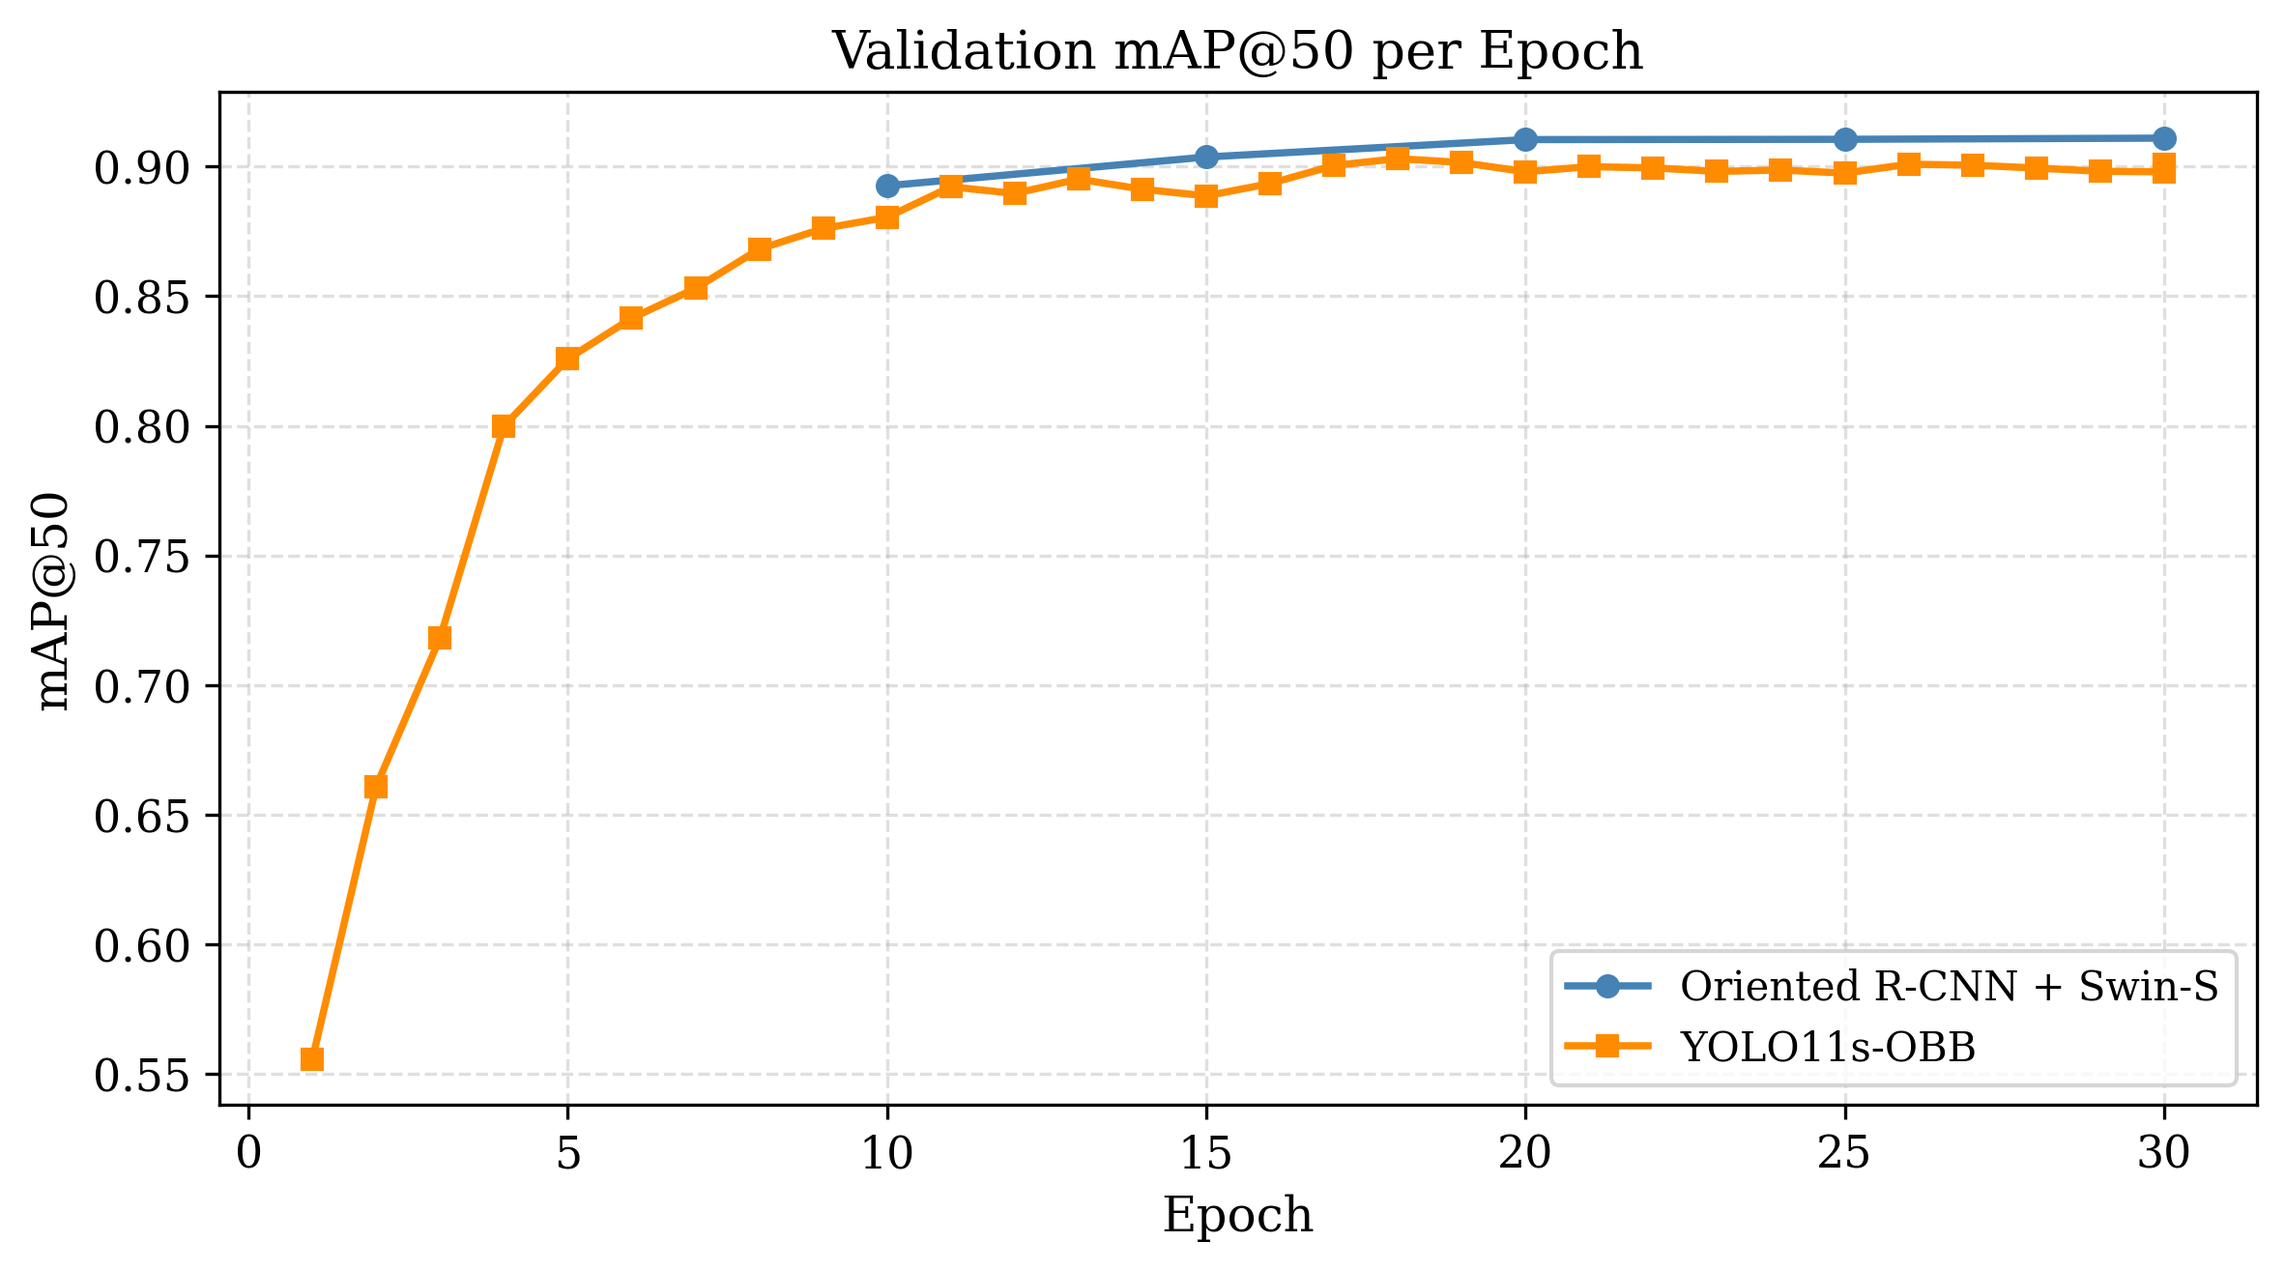
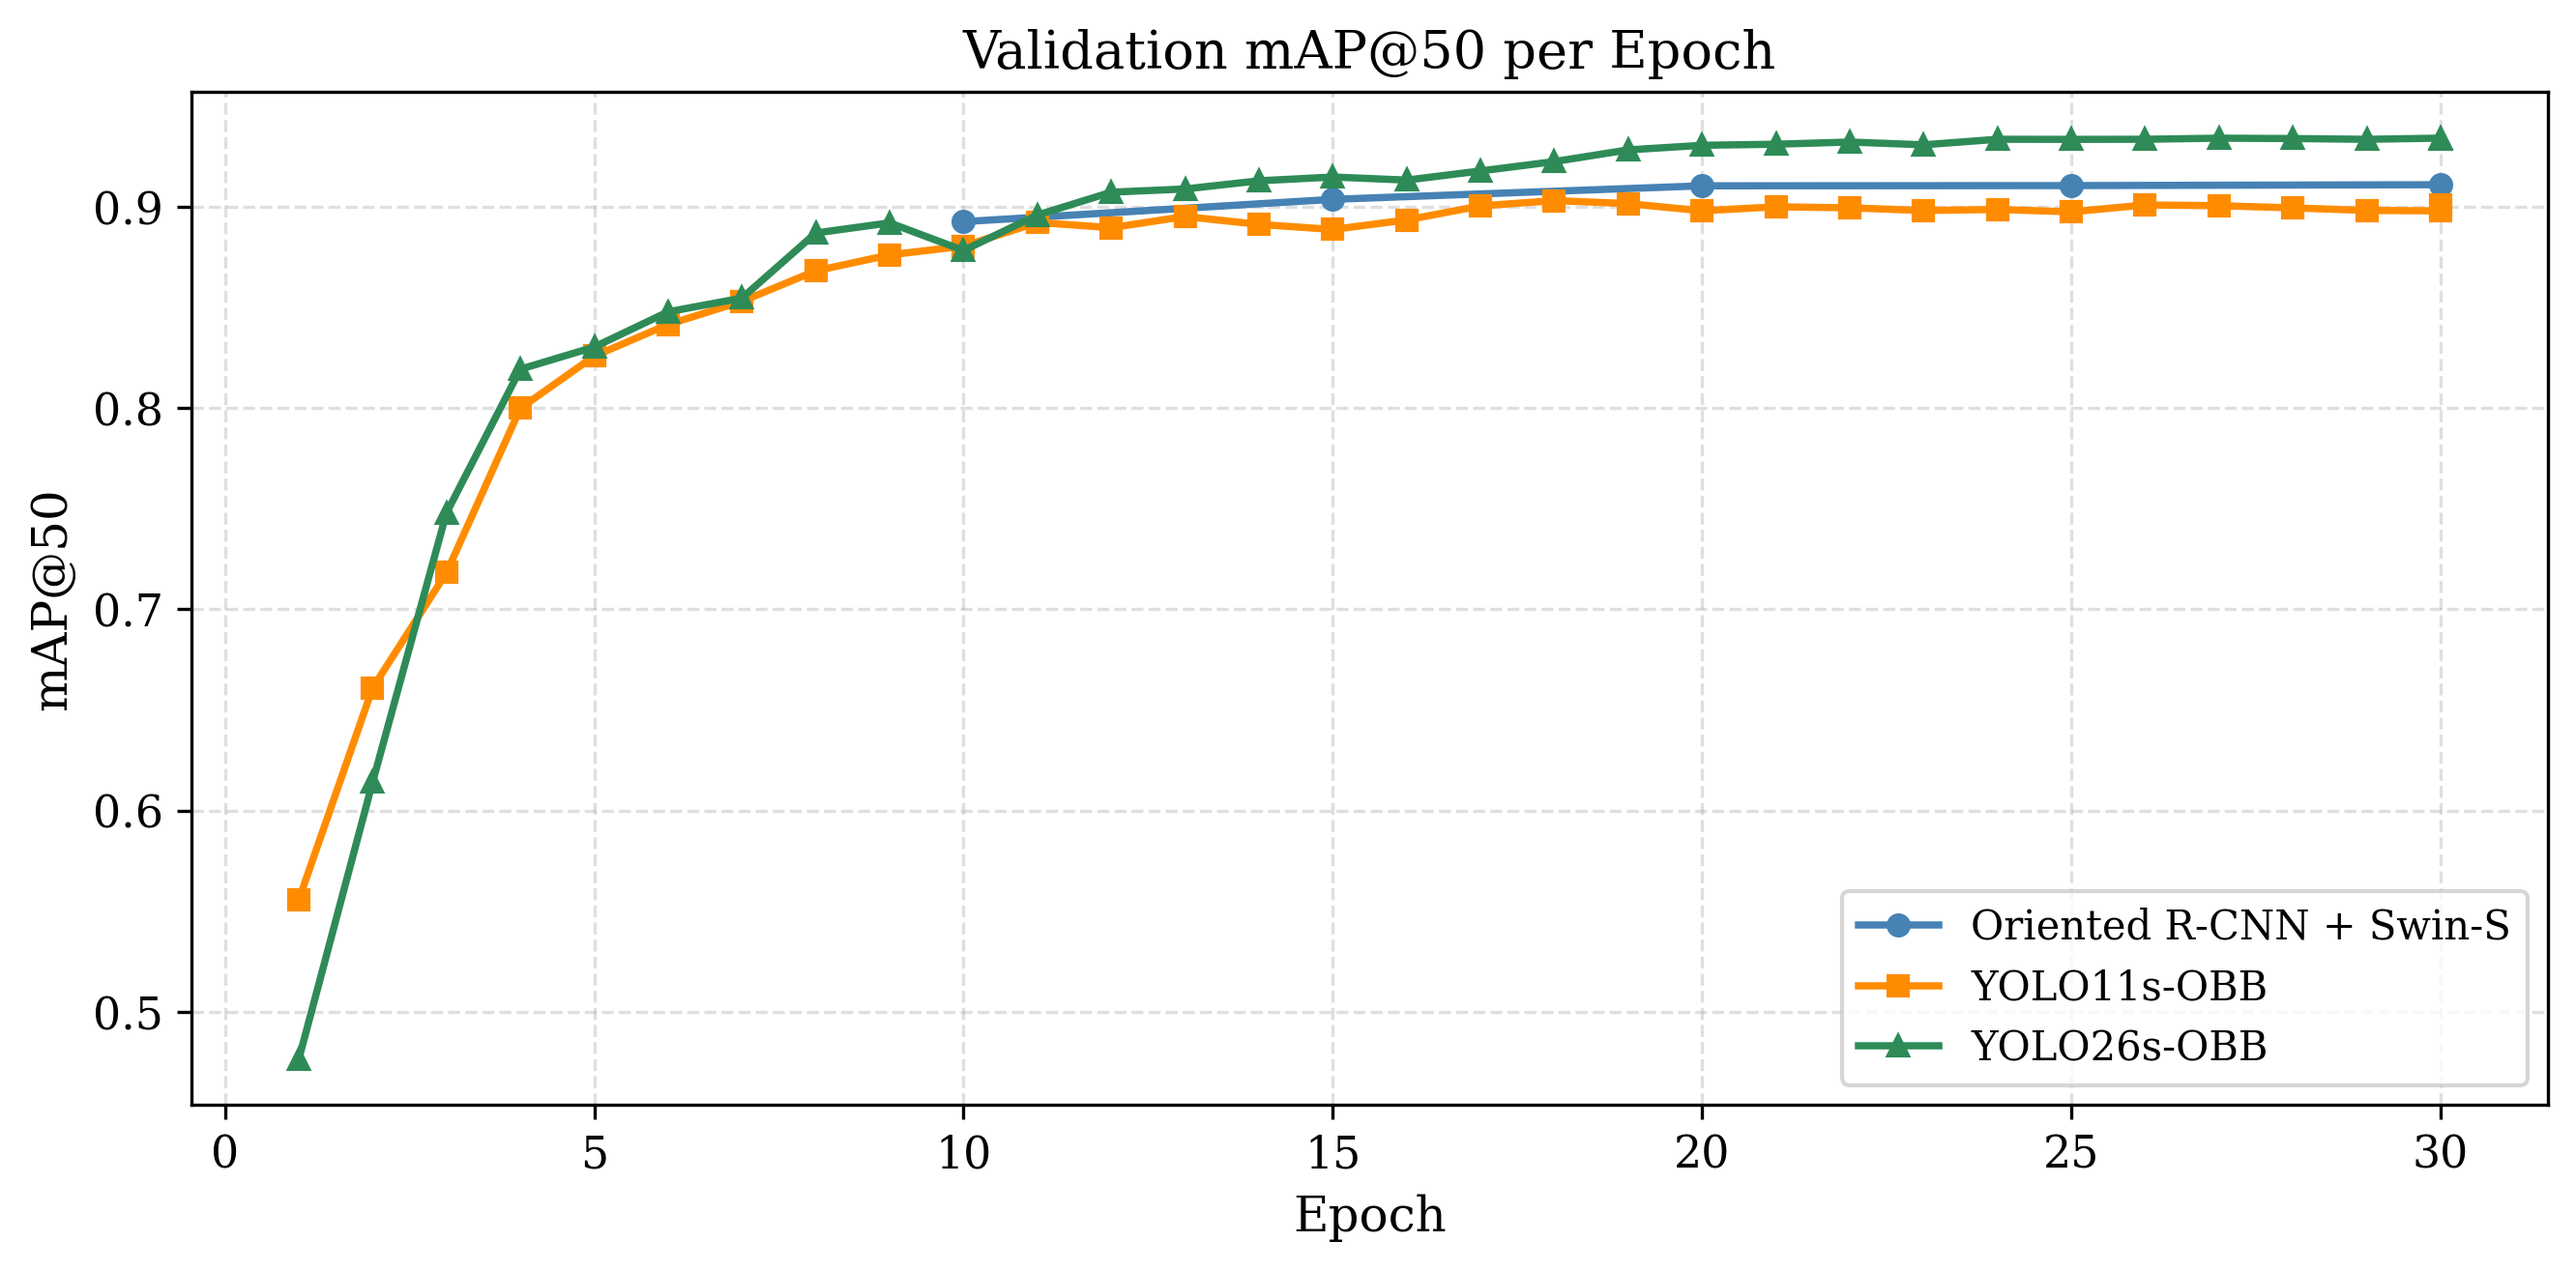
Regenerate all figures with YOLO26s; fix log paths and Pareto filter
Made-with: Cursor

diff --git a/docs/plot_results.py b/docs/plot_results.py
@@ -31,8 +31,8 @@ FIGURES  = Path("docs/figures")
 FIGURES.mkdir(exist_ok=True)
 
 RCNN_LOG   = "work_dirs/orientedrcnn_swinS_baseline/tf_logs"
-YOLO11_LOG = "runs/yolo_obb/yolo11s_baseline/train"
-YOLO11_CSV = "runs/yolo_obb/yolo11s_baseline/train/results.csv"
+YOLO11_LOG = "work_dirs/yolo26_obb_baseline/train"
+YOLO11_CSV = "work_dirs/yolo26_obb_baseline/train/results.csv"
 YOLO26_LOG = "runs/yolo_obb/yolo26s_baseline/train"
 YOLO26_CSV = "runs/yolo_obb/yolo26s_baseline/train/results.csv"
 
@@ -57,9 +57,9 @@ def load_tb(logdir, scalar_key):
     return [e.step for e in events], [e.value for e in events]
 
 
-def load_yolo_csv(col):
+def load_yolo_csv(col, csv_path=None):
     """Load a column from YOLO results.csv. Returns (epochs, values)."""
-    p = Path(YOLO_CSV)
+    p = Path(csv_path or YOLO_CSV)
     if not p.exists():
         return [], []
     rows = []
@@ -75,11 +75,19 @@ def load_yolo_csv(col):
 
 
 def yolo_series(tb_key, csv_col):
-    """Try TensorBoard first, fall back to CSV for YOLO data."""
-    steps, vals = load_tb(YOLO_LOG, tb_key)
+    """Try TensorBoard first, fall back to CSV for YOLO11s data."""
+    steps, vals = load_tb(YOLO11_LOG, tb_key)
     if steps:
         return steps, vals
-    return load_yolo_csv(csv_col)
+    return load_yolo_csv(csv_col, YOLO11_CSV)
+
+
+def yolo26_series(tb_key, csv_col):
+    """Try TensorBoard first, fall back to CSV for YOLO26s data."""
+    steps, vals = load_tb(YOLO26_LOG, tb_key)
+    if steps:
+        return steps, vals
+    return load_yolo_csv(csv_col, YOLO26_CSV)
 
 
 def smooth(vals, weight=0.85):
@@ -93,8 +101,40 @@ def smooth(vals, weight=0.85):
 
 # ── Fig 1: Training loss curves ───────────────────────────────────────────────
 
+def _plot_yolo_loss_panel(ax, series_fn, title):
+    """Shared helper: plot YOLO loss components on a given axes."""
+    comp_keys = [
+        ("train/box_loss",   "train/box_loss",   "Box loss",   "steelblue"),
+        ("train/cls_loss",   "train/cls_loss",   "Cls loss",   "darkorange"),
+        ("train/dfl_loss",   "train/dfl_loss",   "DFL loss",   "seagreen"),
+        ("train/angle_loss", "train/angle_loss", "Angle loss", "orchid"),
+    ]
+    all_epochs, all_arrs = None, []
+    for tb_key, csv_col, label, color in comp_keys:
+        epochs, vals = series_fn(tb_key, csv_col)
+        if not epochs:
+            continue
+        all_epochs = epochs
+        all_arrs.append(np.array(vals))
+        ax.plot(epochs, vals, alpha=0.25, color=color, linewidth=0.7)
+        ax.plot(epochs, smooth(vals), color=color, linewidth=1.2,
+                linestyle="--", label=label)
+    if all_epochs is not None and len(all_arrs) == 4:
+        total = sum(all_arrs)
+        ax.plot(all_epochs, total, alpha=0.25, color="black", linewidth=0.7)
+        ax.plot(all_epochs, smooth(list(total)), color="black",
+                linewidth=2.0, label="Total loss")
+    if all_epochs is None:
+        ax.text(0.5, 0.5, "No data yet", ha="center", va="center",
+                transform=ax.transAxes, color="gray")
+    ax.set_title(title)
+    ax.set_xlabel("Epoch")
+    ax.set_ylabel("Loss")
+    ax.legend(fontsize=8)
+
+
 def plot_loss_curves():
-    fig, axes = plt.subplots(1, 2, figsize=(13, 4.5), sharey=False)
+    fig, axes = plt.subplots(1, 3, figsize=(18, 4.5), sharey=False)
 
     # --- RCNN (total loss from TensorBoard) ---
     ax = axes[0]
@@ -113,38 +153,10 @@ def plot_loss_curves():
     ax.xaxis.set_major_formatter(ticker.FuncFormatter(
         lambda x, _: f"{int(x/1000)}k" if x >= 1000 else str(int(x))))
 
-    # --- YOLO (total loss + individual components from TB or CSV) ---
-    ax = axes[1]
-    comp_keys = [
-        ("train/box_loss",   "train/box_loss",   "Box loss",   "steelblue"),
-        ("train/cls_loss",   "train/cls_loss",   "Cls loss",   "darkorange"),
-        ("train/dfl_loss",   "train/dfl_loss",   "DFL loss",   "seagreen"),
-        ("train/angle_loss", "train/angle_loss", "Angle loss", "orchid"),
-    ]
-    all_epochs, all_arrs = None, []
-    for tb_key, csv_col, label, color in comp_keys:
-        epochs, vals = yolo_series(tb_key, csv_col)
-        if not epochs:
-            continue
-        all_epochs = epochs
-        all_arrs.append(np.array(vals))
-        ax.plot(epochs, vals, alpha=0.25, color=color, linewidth=0.7)
-        ax.plot(epochs, smooth(vals), color=color, linewidth=1.2,
-                linestyle="--", label=label)
-
-    if all_epochs is not None and len(all_arrs) == 4:
-        total = sum(all_arrs)
-        ax.plot(all_epochs, total, alpha=0.25, color="black", linewidth=0.7)
-        ax.plot(all_epochs, smooth(list(total)), color="black",
-                linewidth=2.0, label="Total loss")
-
-    if all_epochs is None:
-        ax.text(0.5, 0.5, "No data yet", ha="center", va="center",
-                transform=ax.transAxes, color="gray")
-    ax.set_title("YOLO11s-OBB")
-    ax.set_xlabel("Epoch")
-    ax.set_ylabel("Loss")
-    ax.legend()
+    # --- YOLO11s ---
+    _plot_yolo_loss_panel(axes[1], yolo_series,  "YOLO11s-OBB")
+    # --- YOLO26s ---
+    _plot_yolo_loss_panel(axes[2], yolo26_series, "YOLO26s-OBB")
 
     fig.suptitle("Training Loss Curves", fontweight="bold")
     fig.tight_layout()
@@ -158,7 +170,7 @@ def plot_loss_curves():
 RCNN_STEPS_PER_EPOCH = 6062   # 24,248 images / batch 4
 
 def plot_map_curves():
-    fig, ax = plt.subplots(figsize=(8, 4.5))
+    fig, ax = plt.subplots(figsize=(9, 4.5))
 
     # RCNN — convert steps → epochs
     steps, vals = load_tb(RCNN_LOG, "val/mAP")
@@ -167,11 +179,17 @@ def plot_map_curves():
         ax.plot(epochs, vals, "o-", color="steelblue", linewidth=1.8,
                 markersize=5, label="Oriented R-CNN + Swin-S")
 
-    # YOLO — already in epochs
+    # YOLO11s — already in epochs
     steps, vals = yolo_series("metrics/mAP50(B)", "metrics/mAP50(B)")
     if steps:
         ax.plot(steps, vals, "s-", color="darkorange", linewidth=1.8,
                 markersize=5, label="YOLO11s-OBB")
+
+    # YOLO26s — already in epochs
+    steps, vals = yolo26_series("metrics/mAP50(B)", "metrics/mAP50(B)")
+    if steps:
+        ax.plot(steps, vals, "^-", color="seagreen", linewidth=1.8,
+                markersize=5, label="YOLO26s-OBB")
 
     ax.set_xlabel("Epoch")
     ax.set_ylabel("mAP@50")
@@ -187,20 +205,27 @@ def plot_map_curves():
 # ── Fig 3: mAP50-95 per epoch — both models ───────────────────────────────────
 
 def plot_map5095_curves():
-    fig, ax = plt.subplots(figsize=(8, 4.5))
+    fig, ax = plt.subplots(figsize=(9, 4.5))
 
-    # YOLO only (RCNN doesn't log mAP50-95 during training)
+    # YOLO11s (RCNN doesn't log mAP50-95 during training)
     steps, vals = yolo_series("metrics/mAP50-95(B)", "metrics/mAP50-95(B)")
     if steps:
         ax.plot(steps, vals, "s-", color="darkorange", linewidth=1.8,
                 markersize=5, label="YOLO11s-OBB")
-    else:
+
+    # YOLO26s
+    steps, vals = yolo26_series("metrics/mAP50-95(B)", "metrics/mAP50-95(B)")
+    if steps:
+        ax.plot(steps, vals, "^-", color="seagreen", linewidth=1.8,
+                markersize=5, label="YOLO26s-OBB")
+
+    if not ax.lines:
         ax.text(0.5, 0.5, "No data yet", ha="center", va="center",
                 transform=ax.transAxes, color="gray")
 
     ax.set_xlabel("Epoch")
     ax.set_ylabel("mAP@50:95")
-    ax.set_title("Validation mAP@50:95 per Epoch — YOLO11s-OBB")
+    ax.set_title("Validation mAP@50:95 per Epoch — YOLO Models")
     ax.legend()
     ax.grid(True, linestyle="--", alpha=0.4)
     fig.tight_layout()
@@ -358,7 +383,7 @@ def plot_pareto():
         ("YOLO11s-OBB",                  0.9040,  256),
         ("YOLO26s-OBB",                  0.934,   400),
     ]
-    ready = [(l, m, f) for l, m, f in results if m is not None]
+    ready = [(l, m, f) for l, m, f in results if m is not None and f is not None]
     if not ready:
         print("  [skip] Pareto plot: fill in mAP and FPS values above.")
         return
